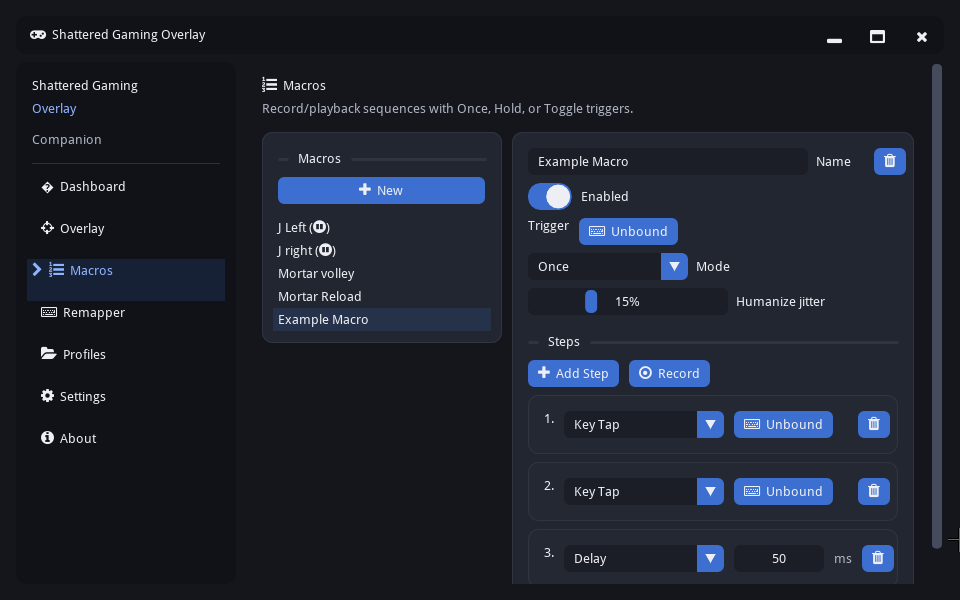
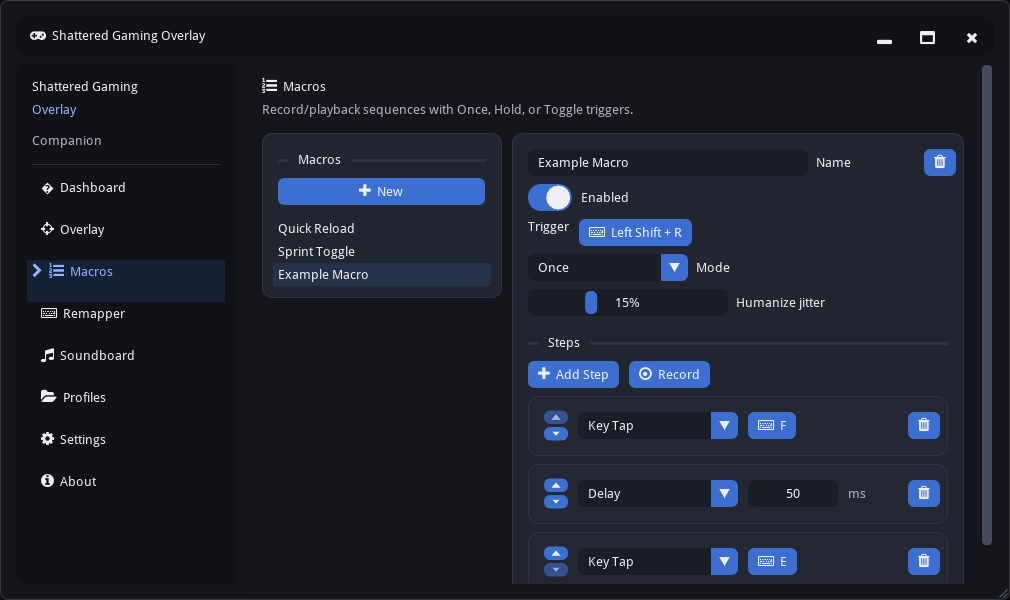
Updating readme with new functions and bug fixes

diff --git a/version.py b/version.py
@@ -1,4 +1,4 @@
-VERSION = "1.6.2"
+VERSION = "1.7.0"
 
 # Shared with main.py (window title) and titlebar.py (FindWindowW lookup) to keep them in sync.
 WINDOW_TITLE = f"Shattered Gaming Overlay  v{VERSION}"

diff --git a/README.md b/README.md
@@ -16,7 +16,33 @@ Two sections, two different jobs. **Remapping** is a plain 1:1 swap — bind any
 
 Record a sequence and play it back with Once, Hold, or Toggle triggers. Playback timing is humanized rather than robotically exact. Delay steps take any value you want — drag to adjust or type an exact number in, no arbitrary cap.
 
+Triggers can be a single key or a combo like **Shift + R** — press the whole combination once while binding and it's captured in one go. Steps can be recorded live or built by hand, and the up/down arrows at the left of each step let you reorder them without deleting and re-adding anything.
+
 ![Macros](assets/screenshots/macros.png)
+
+### Soundboard
+
+Import your own sound clips (WAV, MP3, OGG, or FLAC), give each one a hotkey, and play it on demand — a sound fires the moment you press its key. Each clip has its own volume slider, an enabled toggle, and a Preview button so you can audition it without leaving the app. Clips can overlap, so hitting a second hotkey doesn't cut off the first. If a file gets moved or deleted, the clip is flagged in the panel instead of failing silently.
+
+Pick which speakers or output the sounds play through from the **Output device** dropdown at the top of the panel; it defaults to your system default. Clips are referenced by their location on disk rather than copied, and the soundboard is saved separately from profiles, so switching profiles never changes your sound list. Like Remapper and Macros, hotkeys go inert when a targeted window loses focus.
+
+![Soundboard](assets/screenshots/soundboard.png)
+
+#### Using the soundboard in voice chat
+
+Playing a sound so *other people* hear it — in Discord, in-game voice, on a stream — needs a virtual audio cable. Shattered Gaming Overlay deliberately doesn't install an audio driver of its own (same reasoning as [Why no driver](#why-no-driver)), so you bring a free third-party one such as [VB-CABLE](https://vb-audio.com/Cable/) or [VoiceMeeter](https://vb-audio.com/Voicemeeter/). A virtual cable is a fake device with two ends: whatever is played into its "input" comes out of its "output", where any app can pick it up as if it were a microphone.
+
+1. Install the virtual cable and reboot if the installer asks.
+2. In the Soundboard panel, set **Output device** to the cable's playback end — **CABLE Input** for VB-CABLE.
+3. In Discord, your game's voice chat, or OBS, set the microphone to the cable's recording end — **CABLE Output**.
+4. Press a sound's hotkey. Your teammates hear it.
+
+Two things worth knowing:
+
+- **You won't hear it yourself by default**, because the sound is going into the cable rather than your speakers. To monitor it, open Windows **Sound** settings → **Recording** → double-click **CABLE Output** → **Listen** tab → tick **Listen to this device** and pick your headphones.
+- **Voice apps only listen to one microphone**, so with the cable selected as your mic, your real voice is no longer being sent. To transmit both, use a mixer like VoiceMeeter to combine your real mic and the cable into a single virtual microphone, and point your voice app at that instead.
+
+If you only want to hear sounds yourself, none of this is needed — leave the output on **(system default)** or pick your headphones.
 
 ### Profiles
 
